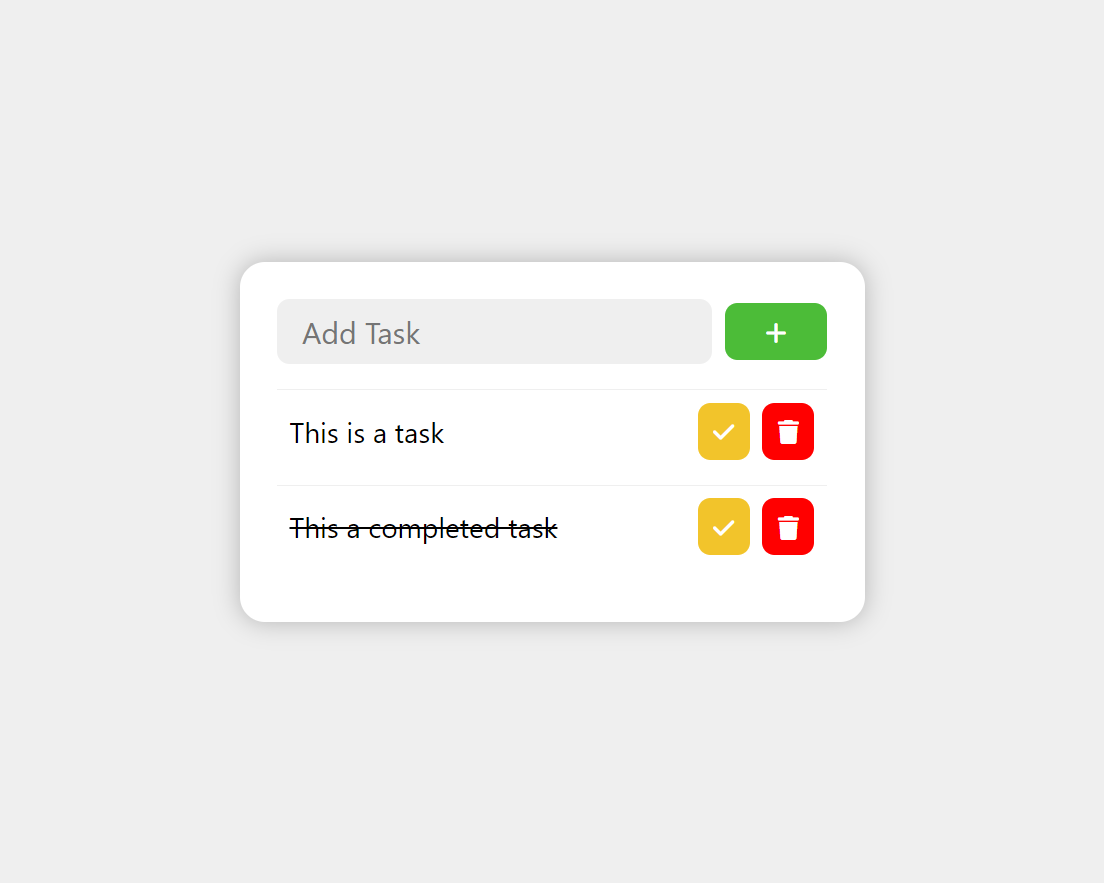
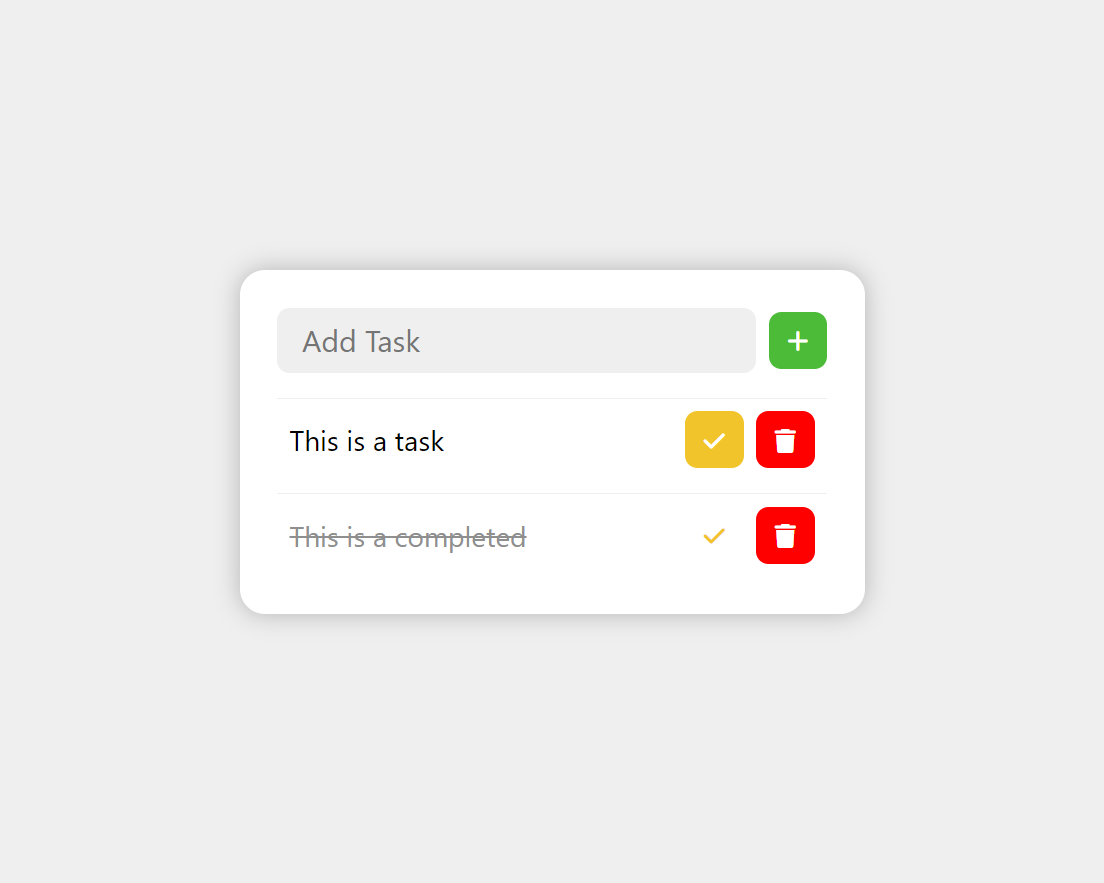
todo list project: adding more styling on the checked task

diff --git a/javascript-projects/todo-list/main.css b/javascript-projects/todo-list/main.css
@@ -86,6 +86,11 @@ button{
     font-size: 1.4rem;
 }
 
+.task span.done{
+    text-decoration: line-through;
+    color: #8f8f8f;
+}
+
 .task button{
     cursor: pointer;
     padding: 10px 15px;
@@ -99,9 +104,14 @@ button{
     background-color: #f2c42b;
 }
 
-#check-task-btn:hover{
+#check-task-btn:hover,
+#check-task-btn.clicked{
     background-color: #ffffff;
     color: #f2c42b;
+}
+
+#check-task-btn.clicked:hover{
+    color: #ede1b6;
 }
 
 #delete-task-btn{

diff --git a/javascript-projects/todo-list/app.js b/javascript-projects/todo-list/app.js
@@ -37,7 +37,8 @@ addTaskBtn.addEventListener('click' , function (){
     tasksContainer.appendChild(task);
 
     checkTaskBtn.addEventListener('click' , () => {
-        checkTaskBtn.parentElement.style.textDecoration = 'line-through';
+        checkTaskBtn.parentElement.querySelector('span').classList.toggle('done');
+        checkTaskBtn.classList.toggle('clicked');
     });
 
     deleteTaskBtn.addEventListener('click' , () => {
